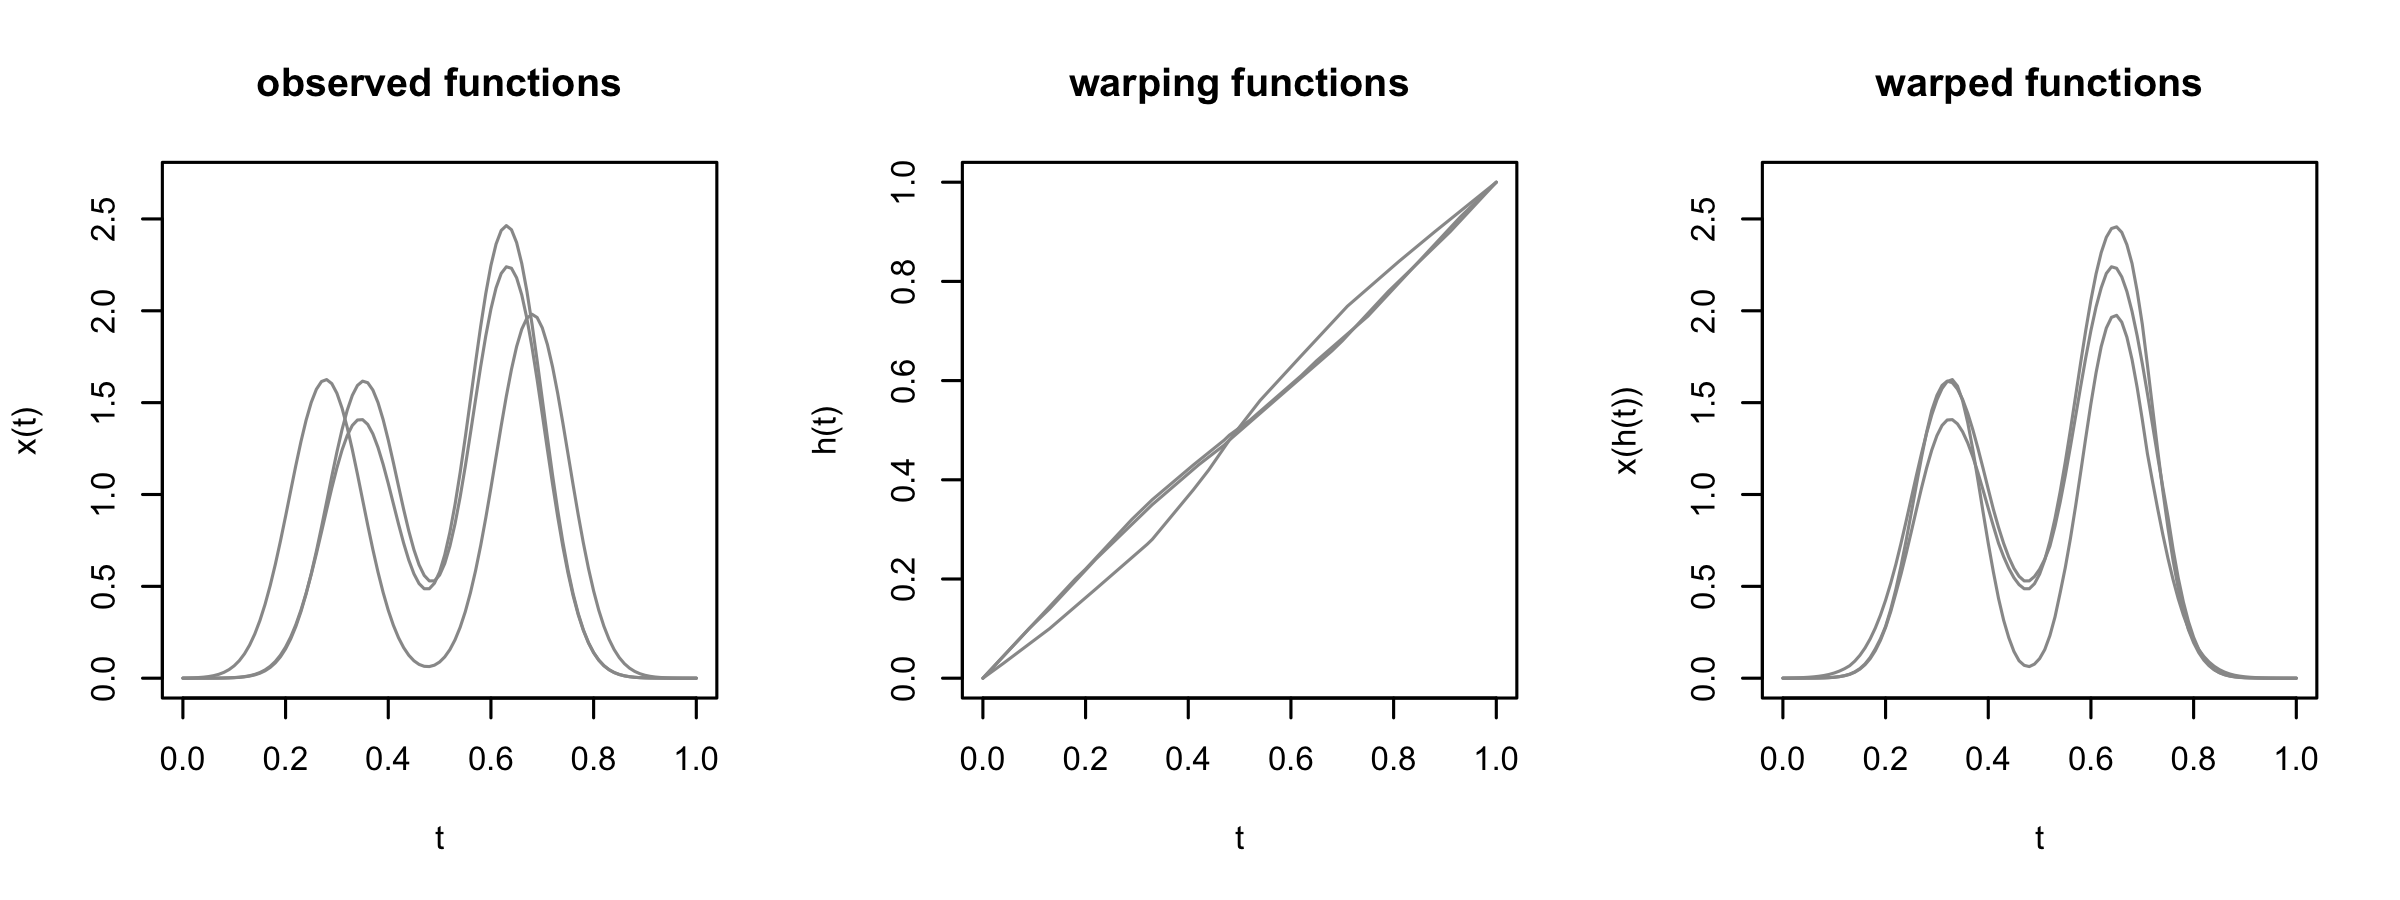
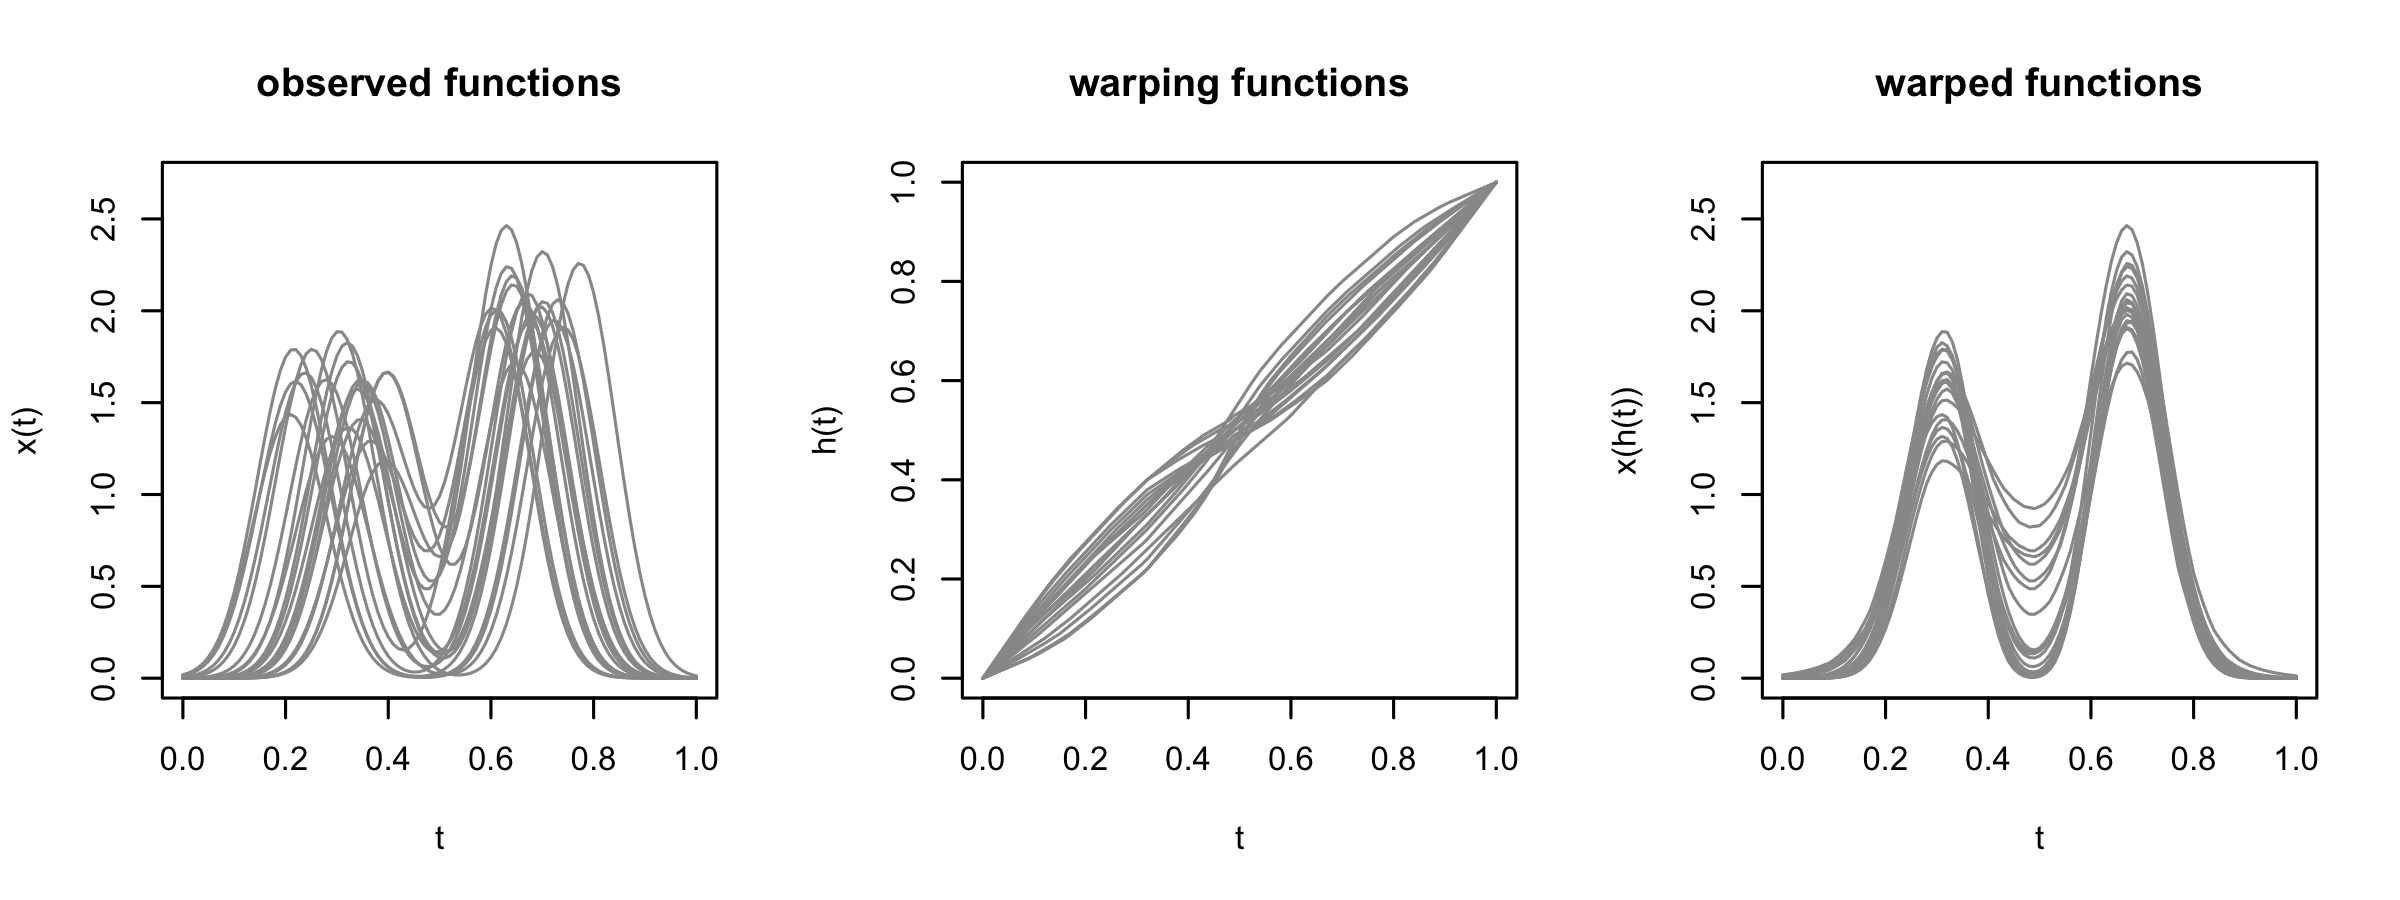
test

diff --git a/docs/README.md b/docs/README.md
@@ -1,6 +1,9 @@
 aCAP
 ================
 
+Fit adjustable combination of amplitude and phase (aCAP) model for
+functional data.
+
 ## Installation
 
 ``` r
@@ -95,7 +98,7 @@ Simulate a set of 20 curves:
 
 ``` r
 set.seed(12345)
-n = 3 # number of curves
+n = 20 # number of curves
 t = seq(0, 1, length.out = 100+1) # time
 fdata = matrix(t, nrow = length(t), ncol = n+1)
 for (j in 1:n) {
